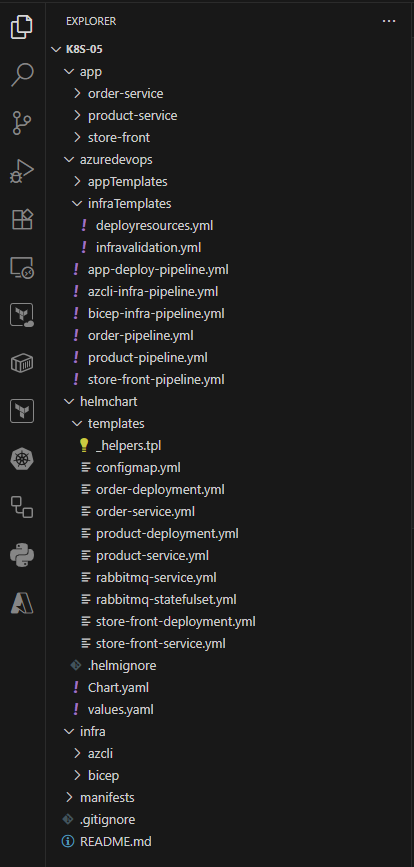
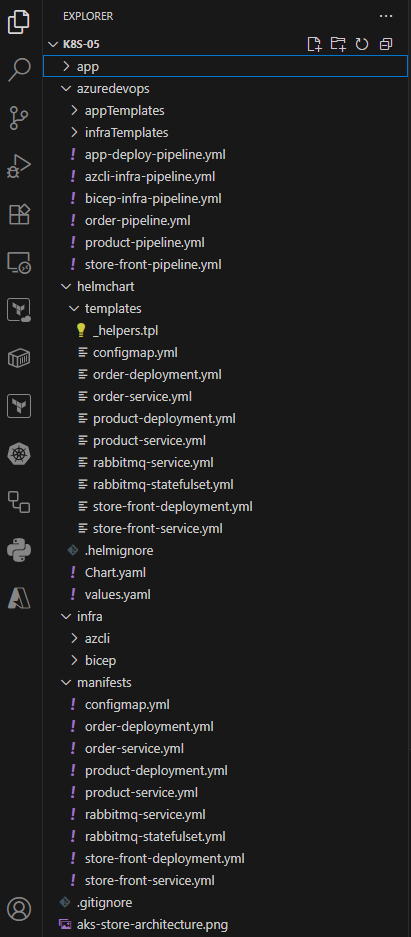
update

diff --git a/README.md b/README.md
@@ -1,24 +1,58 @@
 # Part 5: Deploying microservice applications in AKS using Helm Chat and Azure Pipeline
 
-    Part1: Manual Deployment using comand line tools (AzCLI, Docker Desktop and kubectl)  
-    GitHub: https://github.com/santosh-gh/k8s-01
+    Part1:   Manual Deployment (AzCLI + Docker Desktop + kubectl)  
+    GitHub:  https://github.com/santosh-gh/k8s-01
     YouTube: https://youtu.be/zoJ7MMPVqFY
 
-    Part2: Automated Deployment using Azure DevOps Pipeline
-    GitHub: https://github.com/santosh-gh/k8s-02
+    Part2:   Automated Deployment (AzCLI + Docker + kubect + Azure Pipeline)
+    GitHub:  https://github.com/santosh-gh/k8s-02
     YouTube: https://youtu.be/nnomaZVHg9I
 
-    Part3: Automated Infra Deployment using Bicep and Azure DevOps Pipeline
-    GitHub: https://github.com/santosh-gh/k8s-03
+    Part3:   Automated Infra Deployment (Bicep + Azure Pipeline)
+    GitHub:  https://github.com/santosh-gh/k8s-03
     YouTube: https://www.youtube.com/watch?v=5PAdDPHn8F8
 
-    Part4: Deploying microservice applications in AKS using Helm Chat
-    GitHub: https://github.com/santosh-gh/k8s-04
+    Part4:   Manual Deployment (AzCLI + Docker Desktop + Helm charts + kubectl) 
+    GitHub:  https://github.com/santosh-gh/k8s-04
     YouTube: https://www.youtube.com/watch?v=VAiR3sNavh0
 
-    Part5: Deploying microservice applications in AKS using Helm Chat and Azure Pipeline
-    GitHub: https://github.com/santosh-gh/k8s-04
-    YouTube: https://www.youtube.com/watch?v=VAiR3sNavh0
+    Part5:   Automated Deployment (AzCLI + Docker + Helm charts + kubectl + Azure Pipeline) 
+    GitHub:  https://github.com/santosh-gh/k8s-04
+    YouTube: https://www.youtube.com/watch?v=MnWe2KGRrxg&t=883s
+
+    Part6:   Automated Deployment (AzCLI + Docker + Helm charts + kubectl + Azure Pipeline) 
+             Dynamically update the image tag in values.yaml
+    GitHub:  https://github.com/santosh-gh/k8s-06
+    YouTube: https://www.youtube.com/watch?v=Nx0defm8T6g&t=11s
+
+    Part7:   Automated Deployment (AzCLI + Docker + Helm charts + kubectl + Azure Pipeline)
+             Store the helm chart in ACR
+             Dynamically update the image tag in values.yaml
+             Dynamically update the Chart version in Chart.yaml
+
+    GitHub:  https://github.com/santosh-gh/k8s-07
+    YouTube: https://www.youtube.com/watch?v=Y3RaxSZNTaU&t=1s
+
+    Part8:   Automated Deployment (AzCLI + Docker + Helm charts + kubectl + Azure Pipeline)
+             Store the helm chart in ACR
+             Dynamically update the image tag in values.yaml
+             Dynamically update the Chart version in Chart.yaml
+             Deploy into multiple environments (dev, test, prod) with approval gates
+
+    GitHub:  https://github.com/santosh-gh/k8s-08
+    YouTube: https://www.youtube.com/watch?v=oNysAAGijGk&t=43s
+
+    Part9:   Manual Deployment (AzCLI + Docker + kustomize + kubectl)          
+             Deploy into multiple environments (dev, test, prod) through command line
+
+    GitHub:  https://github.com/santosh-gh/k8s-09
+    YouTube: https://www.youtube.com/watch?v=Jtz1KldOPAA&t=1s
+
+    Part10:  Automated Deployment (AzCLI + Docker + kustomize + kubectl + Azure Pipeline)          
+             Deploy into multiple environments (dev, test, prod) through automated pipeline
+
+    GitHub:  https://github.com/santosh-gh/k8s-10
+    YouTube: https://www.youtube.com/watch?v=m5ZXmOk0IBs&t=43s
 
 # Architesture
 
